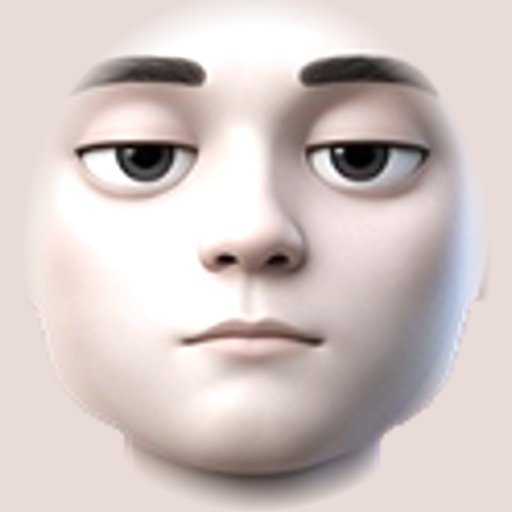
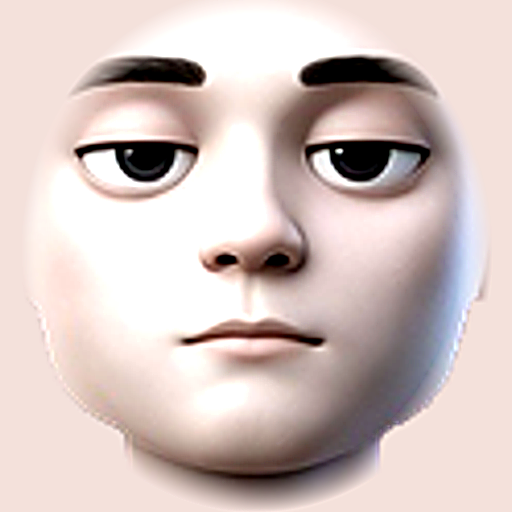
Glider-purple articulated bus (no marks), brighter red side beams, higher-contrast face texture + less fresnel wash

diff --git a/src/traffic.js b/src/traffic.js
@@ -43,9 +43,11 @@ function carVD(kind, body) {
     P.push(color(xf(rbox(2.5, 2.6, 11.8, 0.12, 10), { t: [0, 1.65, 0] }), body));
     P.push(color(xf(box(2.54, 1.0, 10.6), { t: [0, 2.1, -0.3] }), glass));
     P.push(color(xf(box(2.3, 1.6, 0.05), { t: [0, 2.0, 5.92] }), glass));
-    P.push(color(xf(rbox(2.52, 0.25, 11.82, 0.2, 8), { t: [0, 0.48, 0] }), hex('#1b1530')));
+    P.push(color(xf(rbox(2.52, 0.25, 11.82, 0.2, 8), { t: [0, 0.48, 0] }), hex('#3a1446')));
     P.push(color(xf(rbox(2.3, 0.3, 4.0, 0.3, 8), { t: [0, 3.05, -2] }), Color3.Lerp(body, hex('#ffffff'), 0.15)));
     P.push(color(xf(box(1.6, 0.25, 0.04), { t: [0, 2.95, 5.93] }), hex('#ffb000')));
+    P.push(color(xf(box(2.56, 2.5, 0.45), { t: [0, 1.75, -1.2] }), hex('#1a1420'))); // articulation bellows (bendy rapid-transit look)
+    P.push(color(xf(box(2.53, 0.12, 11.0), { t: [0, 1.05, 0] }), hex('#e8e0ee'))); // pale waist band
   } else if (kind === 'cab') { // Belfast black cab (classic tall hackney shape)
     P.push(color(xf(rbox(1.9, 0.85, 4.55, 0.28, 10), { t: [0, 0.78, 0] }), body));
     P.push(color(xf(rbox(1.75, 1.0, 2.7, 0.3, 10), { t: [0, 1.6, -0.35] }), body));
@@ -106,7 +108,7 @@ export function buildTraffic(scene, city, { low = false, stops = [] } = {}) {
   const N = low ? 24 : 58;
   const spawnSpec = [];
   for (let i = 0; i < N; i++) { const kind = ['saloon', 'hatch', 'saloon', 'cab', 'hatch', 'saloon', 'cab'][i % 7]; const col = kind === 'cab' ? hex('#121214') : COLS[Math.floor(R() * COLS.length)]; spawnSpec.push({ kind, col, key: kind + (kind === 'cab' ? '' : COLS.indexOf(col)) }); }
-  for (let i = 0; i < (low ? 1 : 3); i++) spawnSpec.push({ kind: 'bus', col: hex('#482884'), key: 'bus' });
+  for (let i = 0; i < (low ? 1 : 3); i++) spawnSpec.push({ kind: 'bus', col: hex('#7e2a91'), key: 'bus' });
   spawnSpec.push({ kind: 'saloon', col: hex('#eef0f2'), key: 'patrolcar', patrol: true }, { kind: 'saloon', col: hex('#eef0f2'), key: 'patrolcar', patrol: true });
   spawnSpec.push({ kind: 'wagon', col: hex('#e8eaec'), key: 'patrolwagon', patrol: true }, { kind: 'wagon', col: hex('#5d646c'), key: 'patrolwagon2', patrol: true });
   for (const s of spawnSpec) {
@@ -140,7 +142,7 @@ export function buildTraffic(scene, city, { low = false, stops = [] } = {}) {
   { const near = (x, z) => { let best = null, bd = 1e9; for (const r of city.roads) { if (!r.d || r.t === 'service') continue; for (let i = 0; i < r.pts.length - 1; i++) { const a = r.pts[i], b = r.pts[i + 1]; const dx = b[0] - a[0], dz = b[1] - a[1], L = Math.hypot(dx, dz); if (L < 16) continue; const t = Math.max(0.2, Math.min(0.8, ((x - a[0]) * dx + (z - a[1]) * dz) / (L * L))); const px = a[0] + dx * t, pz = a[1] + dz * t; const d = Math.hypot(px - x, pz - z); if (d < bd) { bd = d; best = { px, pz, ux: dx / L, uz: dz / L, w: r.w, L }; } } } return best; };
     const tp = city.templeDoor; if (tp) { const s = near(tp.x + 30, tp.z - 10); if (s) for (let k = 0; k < 3; k++) park('cab', 'cab', hex('#121214'), s.px - s.ux * k * 5.4 - s.uz * (s.w / 2 - 1.1), s.pz - s.uz * k * 5.4 + s.ux * (s.w / 2 - 1.1), Math.atan2(s.ux, s.uz), { lights: true }); }
     const ref = tp || { x: 0, z: 0 }; let stop = null, sd = 1e9; for (const st of stops) { const d = Math.hypot(st[0] - ref.x, st[1] - ref.z); if (d < sd) { sd = d; stop = st; } }
-    if (stop) { const s = near(stop[0], stop[1]); if (s) { const bx = s.px - s.uz * (s.w / 2 - 1.5), bz = s.pz + s.ux * (s.w / 2 - 1.5); park('bus', 'bus', hex('#482884'), bx, bz, Math.atan2(s.ux, s.uz), { lights: true }); busStop = { x: bx - s.uz * 3.2, z: bz + s.ux * 3.2, h: Math.atan2(s.ux, s.uz) }; } } }
+    if (stop) { const s = near(stop[0], stop[1]); if (s) { const bx = s.px - s.uz * (s.w / 2 - 1.5), bz = s.pz + s.ux * (s.w / 2 - 1.5); park('bus', 'bus', hex('#7e2a91'), bx, bz, Math.atan2(s.ux, s.uz), { lights: true }); busStop = { x: bx - s.uz * 3.2, z: bz + s.ux * 3.2, h: Math.atan2(s.ux, s.uz) }; } } }
   if (busStop) { // bus shelter with a lit Reckless ad panel
     const shM = new StandardMaterial('shelter', scene); shM.diffuseColor = new Color3(1, 1, 1); shM.specularColor = new Color3(0.4, 0.4, 0.4);
     const sh = toMesh('busShelter', merge([color(xf(box(3.6, 0.08, 1.5), { t: [0, 2.5, 0] }), hex('#30343c')), ...[-1.75, 1.75].map(x => color(xf(box(0.08, 2.5, 0.08), { t: [x, 1.25, -0.65] }), hex('#30343c'))), color(xf(box(3.5, 2.1, 0.03), { t: [0, 1.25, -0.7] }), hex('#8fa4b8')), color(xf(box(2.2, 0.08, 0.4), { t: [0, 0.5, -0.45] }), hex('#30343c'))]), scene, shM);

diff --git a/src/temple.js b/src/temple.js
@@ -442,10 +442,10 @@ export function updateTempleInterior(T, t, dt) {
   M.brM.emissiveColor.set(1, 0.08 + 0.1 * kick, 0.12);
   M.beams.forEach(b => {
     if (b.kind === 'mh') { const s = t * 0.9 + b.i * 0.8; b.m.rotation.x = 1.0 + Math.sin(s) * 0.35; b.m.rotation.z = Math.sin(s * 0.7 + b.i) * 0.6; b.m.visibility = 0.65 + 0.35 * kick; }
-    else if (b.kind === 'side') { const s = t * 0.6 + b.i; b.m.rotation.z = -b.sd * (0.9 + Math.sin(s) * 0.4); b.m.rotation.x = Math.sin(s * 0.8) * 0.5; b.m.visibility = (Math.floor(beat / 4) % 2 ? 0.8 : 0.15) * (0.6 + 0.4 * kick); }
+    else if (b.kind === 'side') { const s = t * 0.6 + b.i; b.m.rotation.z = -b.sd * (0.9 + Math.sin(s) * 0.4); b.m.rotation.x = Math.sin(s * 0.8) * 0.5; b.m.visibility = (Math.floor(beat / 4) % 2 ? 1 : 0.4) * (0.65 + 0.35 * kick); }
     else { b.m.rotation.x = -1.45 + Math.sin(t * 0.3 + b.i) * 0.05; b.m.rotation.z = (b.i - 1.5) * 0.12 + Math.sin(t * 0.5 + b.i) * 0.08; b.m.visibility = (Math.floor(beat) % 8 < 4 ? 0.55 : 0.25) + 0.35 * kick; }
   });
-  M.beamM.emissiveColor.set(0.42 + strobe * 0.4, 0.46 + strobe * 0.4, 0.56 + strobe * 0.4); M.blastM.emissiveColor.set(0.12, 0.18, 0.32); if (M.beamRM) M.beamRM.emissiveColor.set(0.5, 0.04, 0.1);
+  M.beamM.emissiveColor.set(0.42 + strobe * 0.4, 0.46 + strobe * 0.4, 0.56 + strobe * 0.4); M.blastM.emissiveColor.set(0.12, 0.18, 0.32); if (M.beamRM) M.beamRM.emissiveColor.set(1.0, 0.07, 0.16);
   T.lights.hemi.intensity = 0.5 + strobe * 0.9;
   T.lights.red.intensity = 0.7 + 0.6 * kick; T.lights.blue.intensity = 0.45 + 0.45 * kick;
   M.hazes.forEach((h, k) => { h.position.x = Math.sin(t * 0.07 + k) * 3; h.rotation.y = Math.PI; });

diff --git a/src/character.js b/src/character.js
@@ -238,7 +238,7 @@ export function faceMaterial(scene) {
   if (faceMat) return faceMat; const base = avatarMaterial(scene);
   const m = new StandardMaterial('face', scene); m.diffuseTexture = new Texture(import.meta.env.BASE_URL + 'data/face.png', scene);
   m.diffuseTexture.wrapU = m.diffuseTexture.wrapV = Texture.CLAMP_ADDRESSMODE;
-  m.specularColor = base.specularColor.clone(); m.specularPower = base.specularPower; m.emissiveColor = base.emissiveColor.clone(); m.emissiveFresnelParameters = base.emissiveFresnelParameters.clone();
+  m.specularColor = base.specularColor.clone(); m.specularPower = base.specularPower; m.emissiveColor = base.emissiveColor.scale(0.6); m.emissiveFresnelParameters = base.emissiveFresnelParameters.clone(); m.emissiveFresnelParameters.leftColor = m.emissiveFresnelParameters.leftColor.scale(0.55);
   return (faceMat = m);
 }
 export function createAvatar(scene, { name = 'avatar', palette = null, outfit = 'stan', decals = true, lod = 1 } = {}) {
